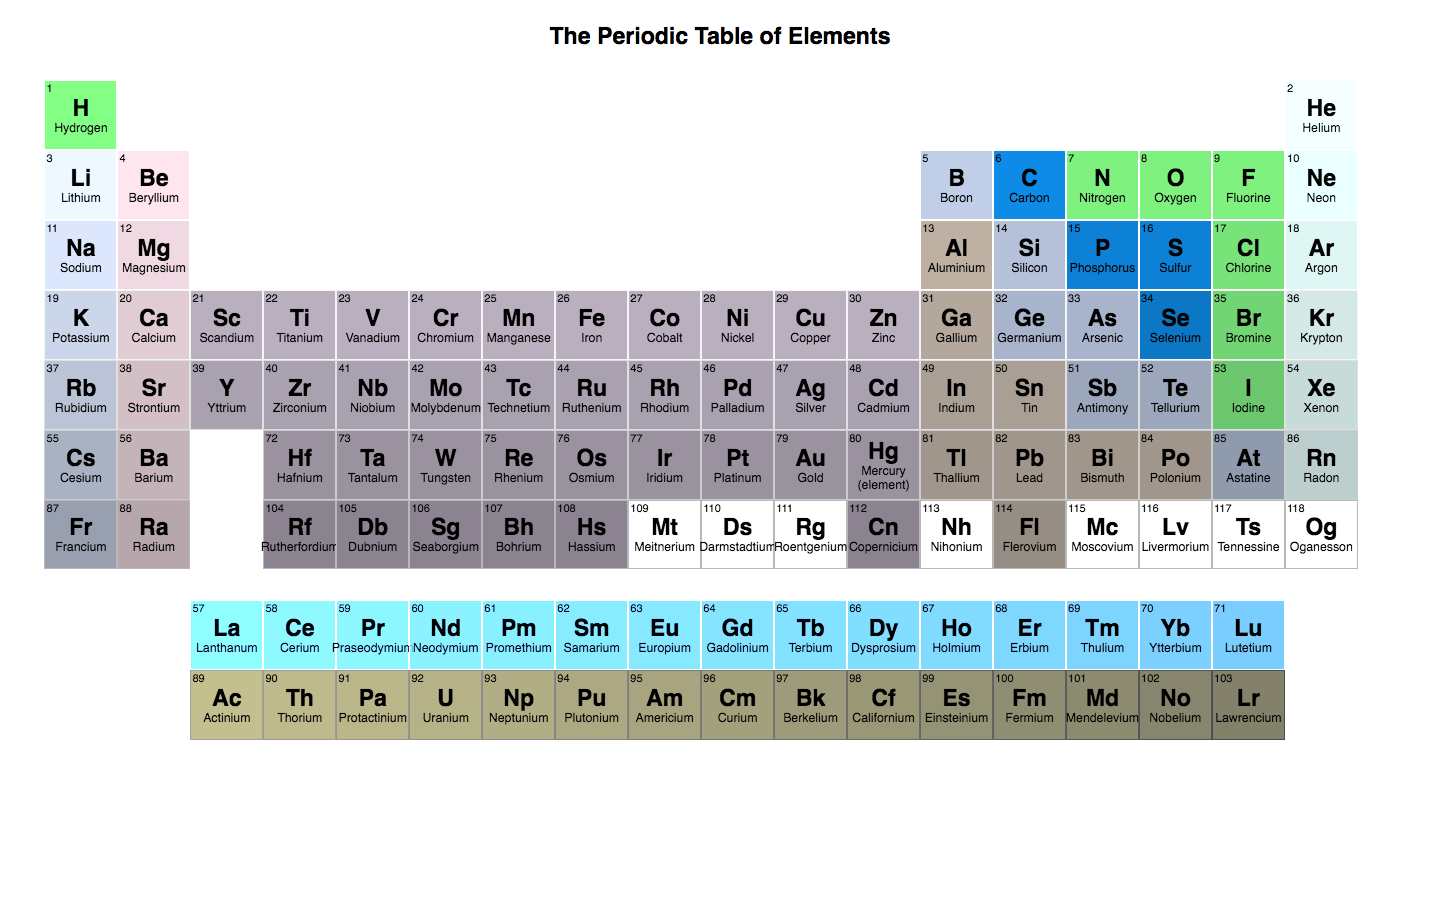
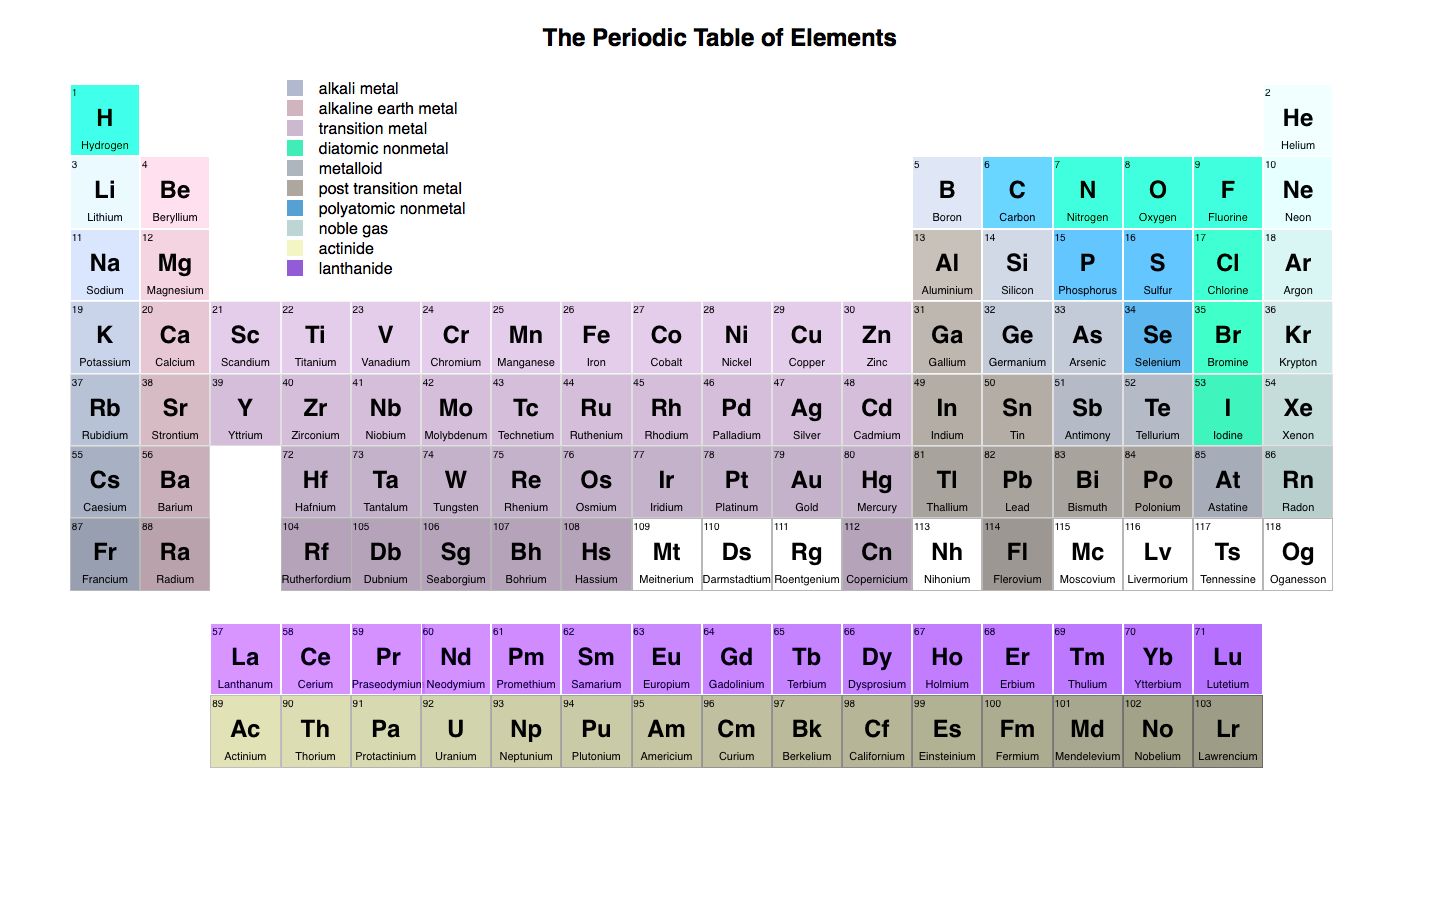
some styling, move screenshot to proper place

diff --git a/static/style.css b/static/style.css
@@ -131,8 +131,8 @@ dt {
 .category-colors-legend {
   position: absolute;
   width: 17%;
-  top: 4em;
-  left: 20em;
+  top: 7%;
+  left: 20%;
 }
 
 dd.category-colors,

diff --git a/README.md b/README.md
@@ -1,3 +1,3 @@
 A periodic table project - work in progress. 
 
-![screenshot](prototype/screenshot.png)
+![screenshot](screenshot.png)
